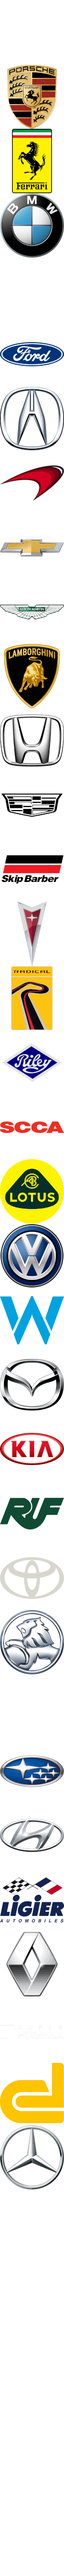
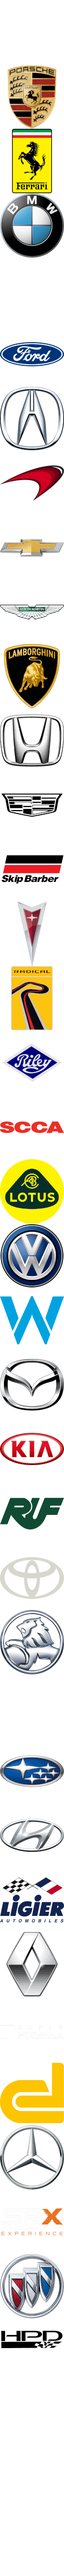
Incorporating comments from PR

Changed region(s): [[0.0, 0.8438, 1.0, 0.9375], [0.125, 0.0, 0.875, 0.0625]]

diff --git a/src/frontend/components/Standings/components/CarManufacturer/CarManufacturer.tsx b/src/frontend/components/Standings/components/CarManufacturer/CarManufacturer.tsx
@@ -49,6 +49,9 @@ const carLogoPositions: Record<string, { x: string; y: string }> = {
   "superformula": { x: '0', y: '79.51%' },
   "dallara": { x: '0', y: '82.0%' },
   "mercedes": { x: '0', y: '84.60%' },
+  "srx": { x: '0', y: '87.17%' },
+  "buick": { x: '0', y: '89.78%' },
+  "hpd": { x: '0', y: '92.4%' },
 };
 
 // Cars models
@@ -72,7 +75,7 @@ export const CAR_ID_TO_CAR_MANUFACTURER: Record<number, string> = {
   33: 'williams',   // Williams-Toyota FW31
   34: 'mazda',      // Mazda MX-5 cup (legacy)
   38: 'chevrolet',  // NASCAR Nationwide Chevrolet Impala - 2012 (legacy)
-  39: 'hpd',        // HDP ARX-01c
+  39: 'hpd',        // HPD ARX-01c
   40: 'ford',       // Ford GT GT2
   41: 'cadillac',   // Cadillac CTS-V Racecar
   42: 'lotus',      // Lotus 49
@@ -132,7 +135,7 @@ export const CAR_ID_TO_CAR_MANUFACTURER: Record<number, string> = {
   123: 'ford',      // NASCAR Truck Ford F150
   124: 'chevrolet', //NASCAR Legends Chevrolet Monte Carlo - 1987
   125: 'ford',      //NASCAR Legends Ford Thunderbird - 1987
-  127: 'chervrolet',// Chevrolet Corvette C8.R GTE
+  127: 'chevrolet',// Chevrolet Corvette C8.R GTE
   128: 'dallara',   // Dallara P217
   129: 'dallara',   // Dallara iR-01
   131: 'unknown',   // Dirt Big Block Modified
@@ -206,15 +209,10 @@ export const CarManufacturer: React.FC<CarManufacturerProps> = ({
                                                     size = 'md',
                                                   }) => {
 
-  if (carId < 0) {
+  const carManufacturer = getCarManufacturerFromCarID(carId) || 'unknown';
+
+  if (carId < 0 || !Object.keys(carLogoPositions).includes(carManufacturer)) {
     return null;
-  }
-
-
-  let carManufacturer = getCarManufacturerFromCarID(carId);
-
-  if (!carManufacturer) {
-   carManufacturer = 'unknown';
   }
 
   return (

diff --git a/src/frontend/components/Standings/components/CarManufacturer/CarManufacturer.stories.tsx b/src/frontend/components/Standings/components/CarManufacturer/CarManufacturer.stories.tsx
@@ -227,6 +227,24 @@ export const AllManufacturers: Story = {
         <CarManufacturer carId={72} size="md" />
         <CarManufacturer carId={72} size="lg" />
       </div>
+      <div className="flex items-center gap-4">
+        <span className="text-white w-24">srx:</span>
+        <CarManufacturer carId={179} size="sm" />
+        <CarManufacturer carId={179} size="md" />
+        <CarManufacturer carId={179} size="lg" />
+      </div>
+      <div className="flex items-center gap-4">
+        <span className="text-white w-24">buick:</span>
+        <CarManufacturer carId={154} size="sm" />
+        <CarManufacturer carId={154} size="md" />
+        <CarManufacturer carId={154} size="lg" />
+      </div>
+      <div className="flex items-center gap-4">
+        <span className="text-white w-24">hpd:</span>
+        <CarManufacturer carId={39} size="sm" />
+        <CarManufacturer carId={39} size="md" />
+        <CarManufacturer carId={39} size="lg" />
+      </div>
     </div>
   ),
 };

diff --git a/src/frontend/components/Standings/components/DriverInfoRow/DriverInfoRow.tsx b/src/frontend/components/Standings/components/DriverInfoRow/DriverInfoRow.tsx
@@ -115,7 +115,7 @@ export const DriverInfoRow = ({
           )}
         </div>
       </td>
-      {carId && <td><CarManufacturer carId={carId} size="sm" className="mr-2 flex-shrink-0" /></td>}
+      {carId && <td><div className="flex items-center pr-1"><CarManufacturer carId={carId} size="sm" className="mr-2 flex-shrink-0" /></div></td>}
       {badge && <td>{badge}</td>}
       {iratingChange && (
         <td className="px-2 text-left">
